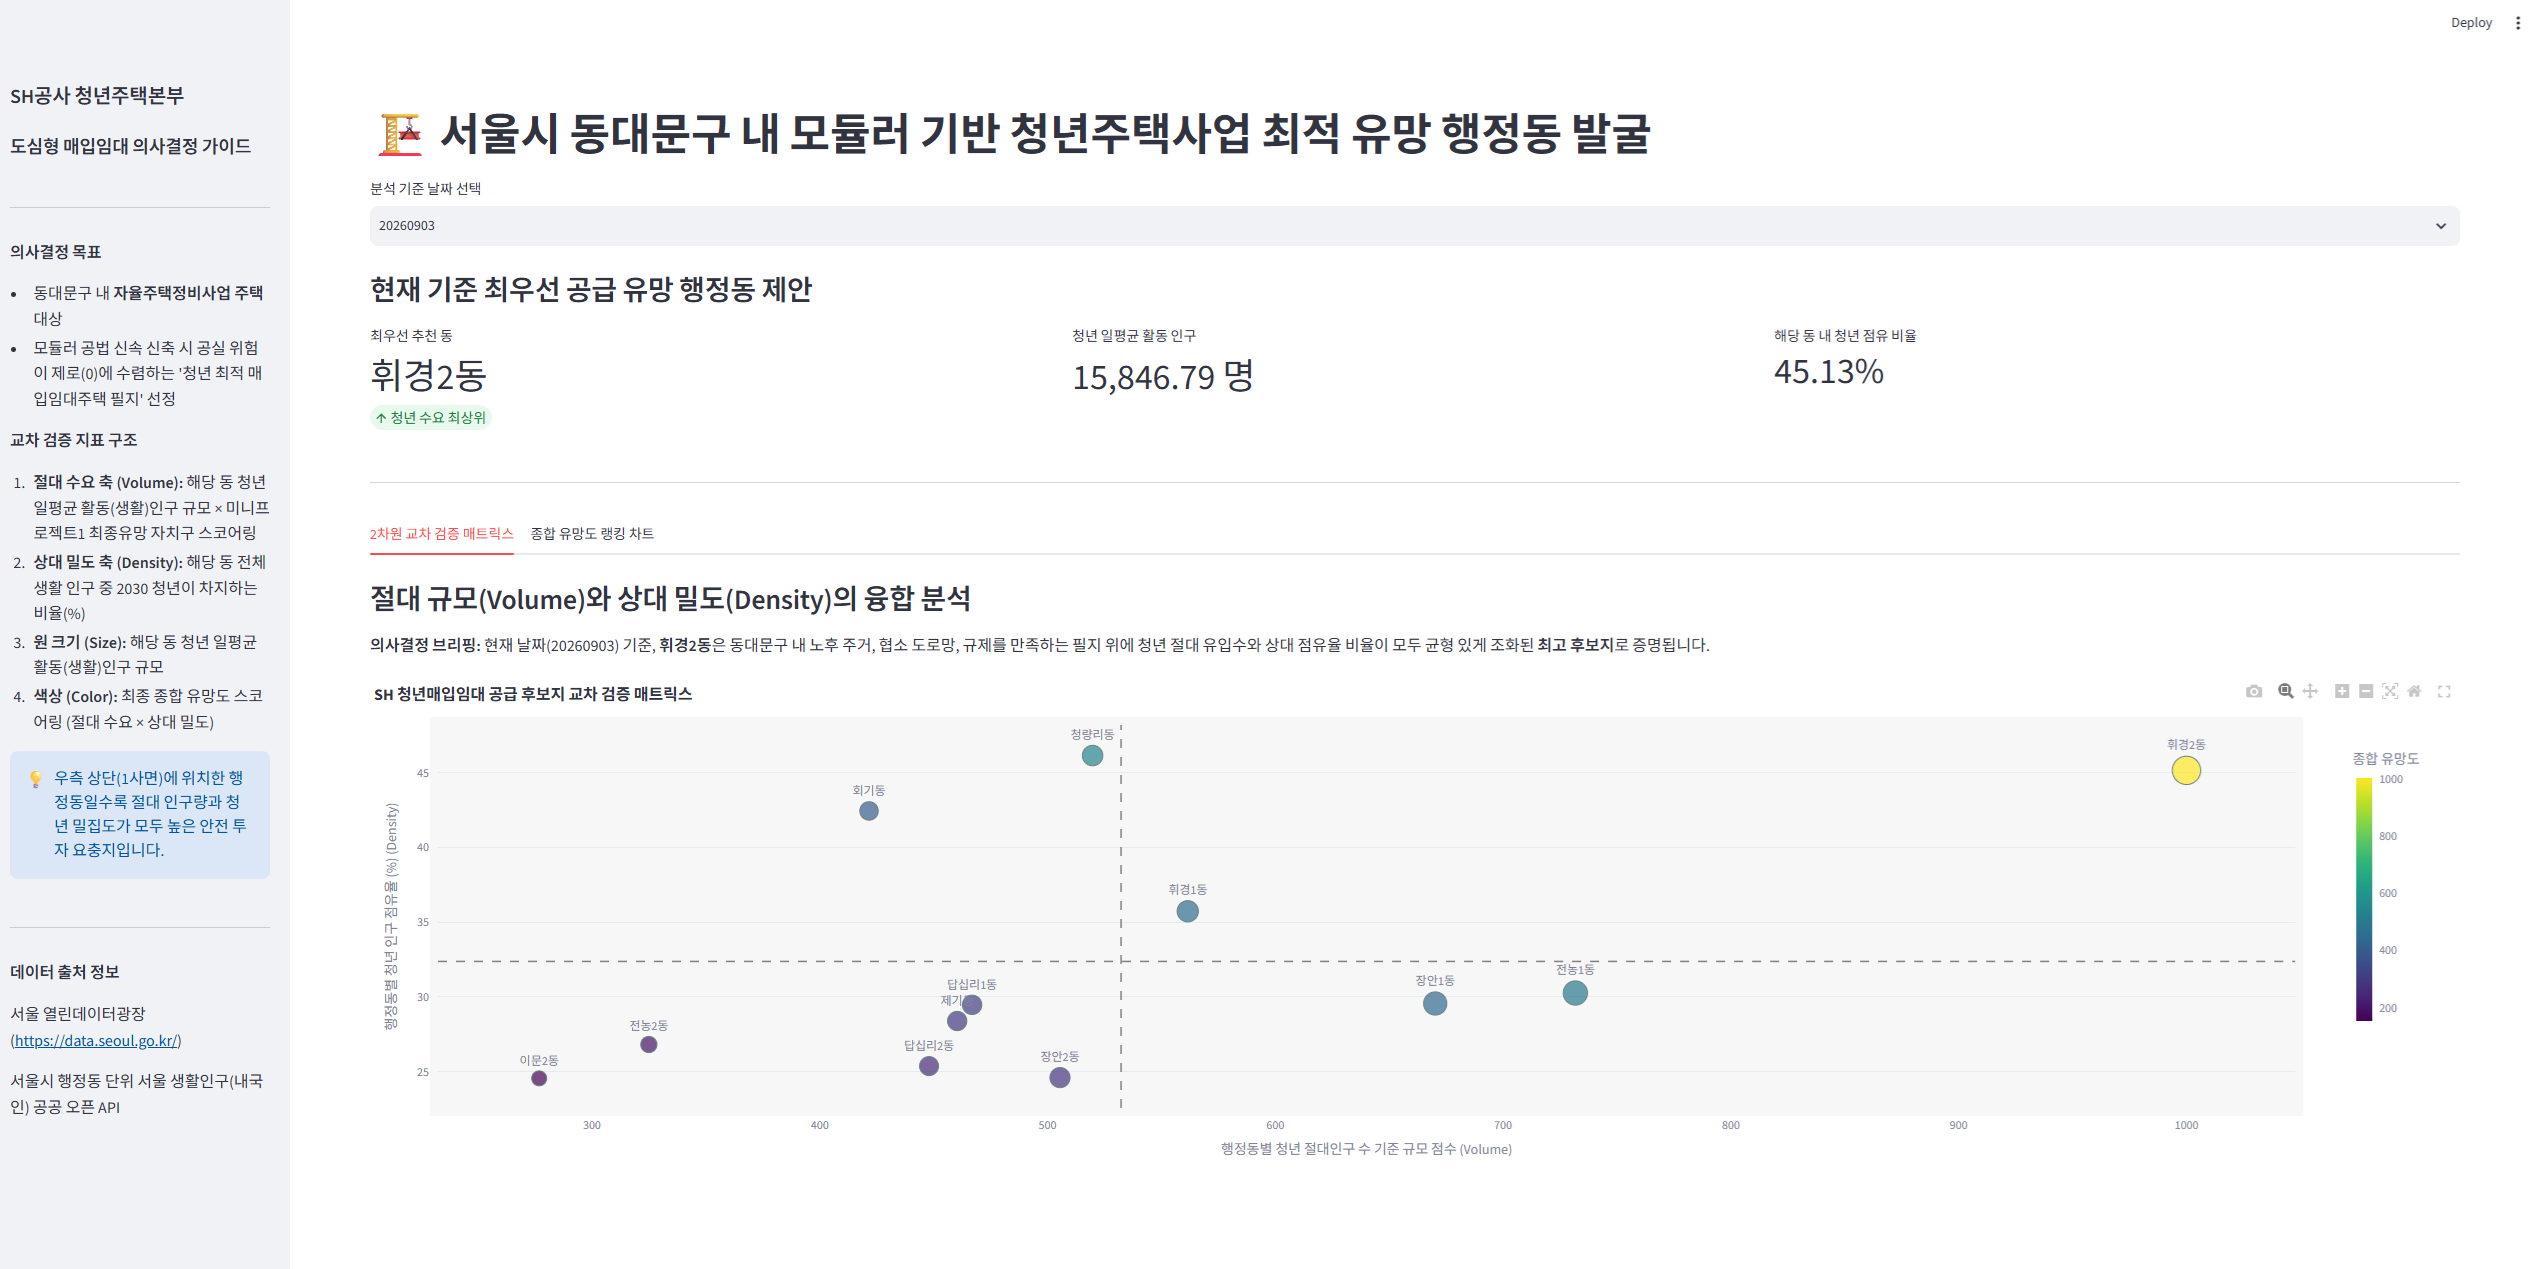
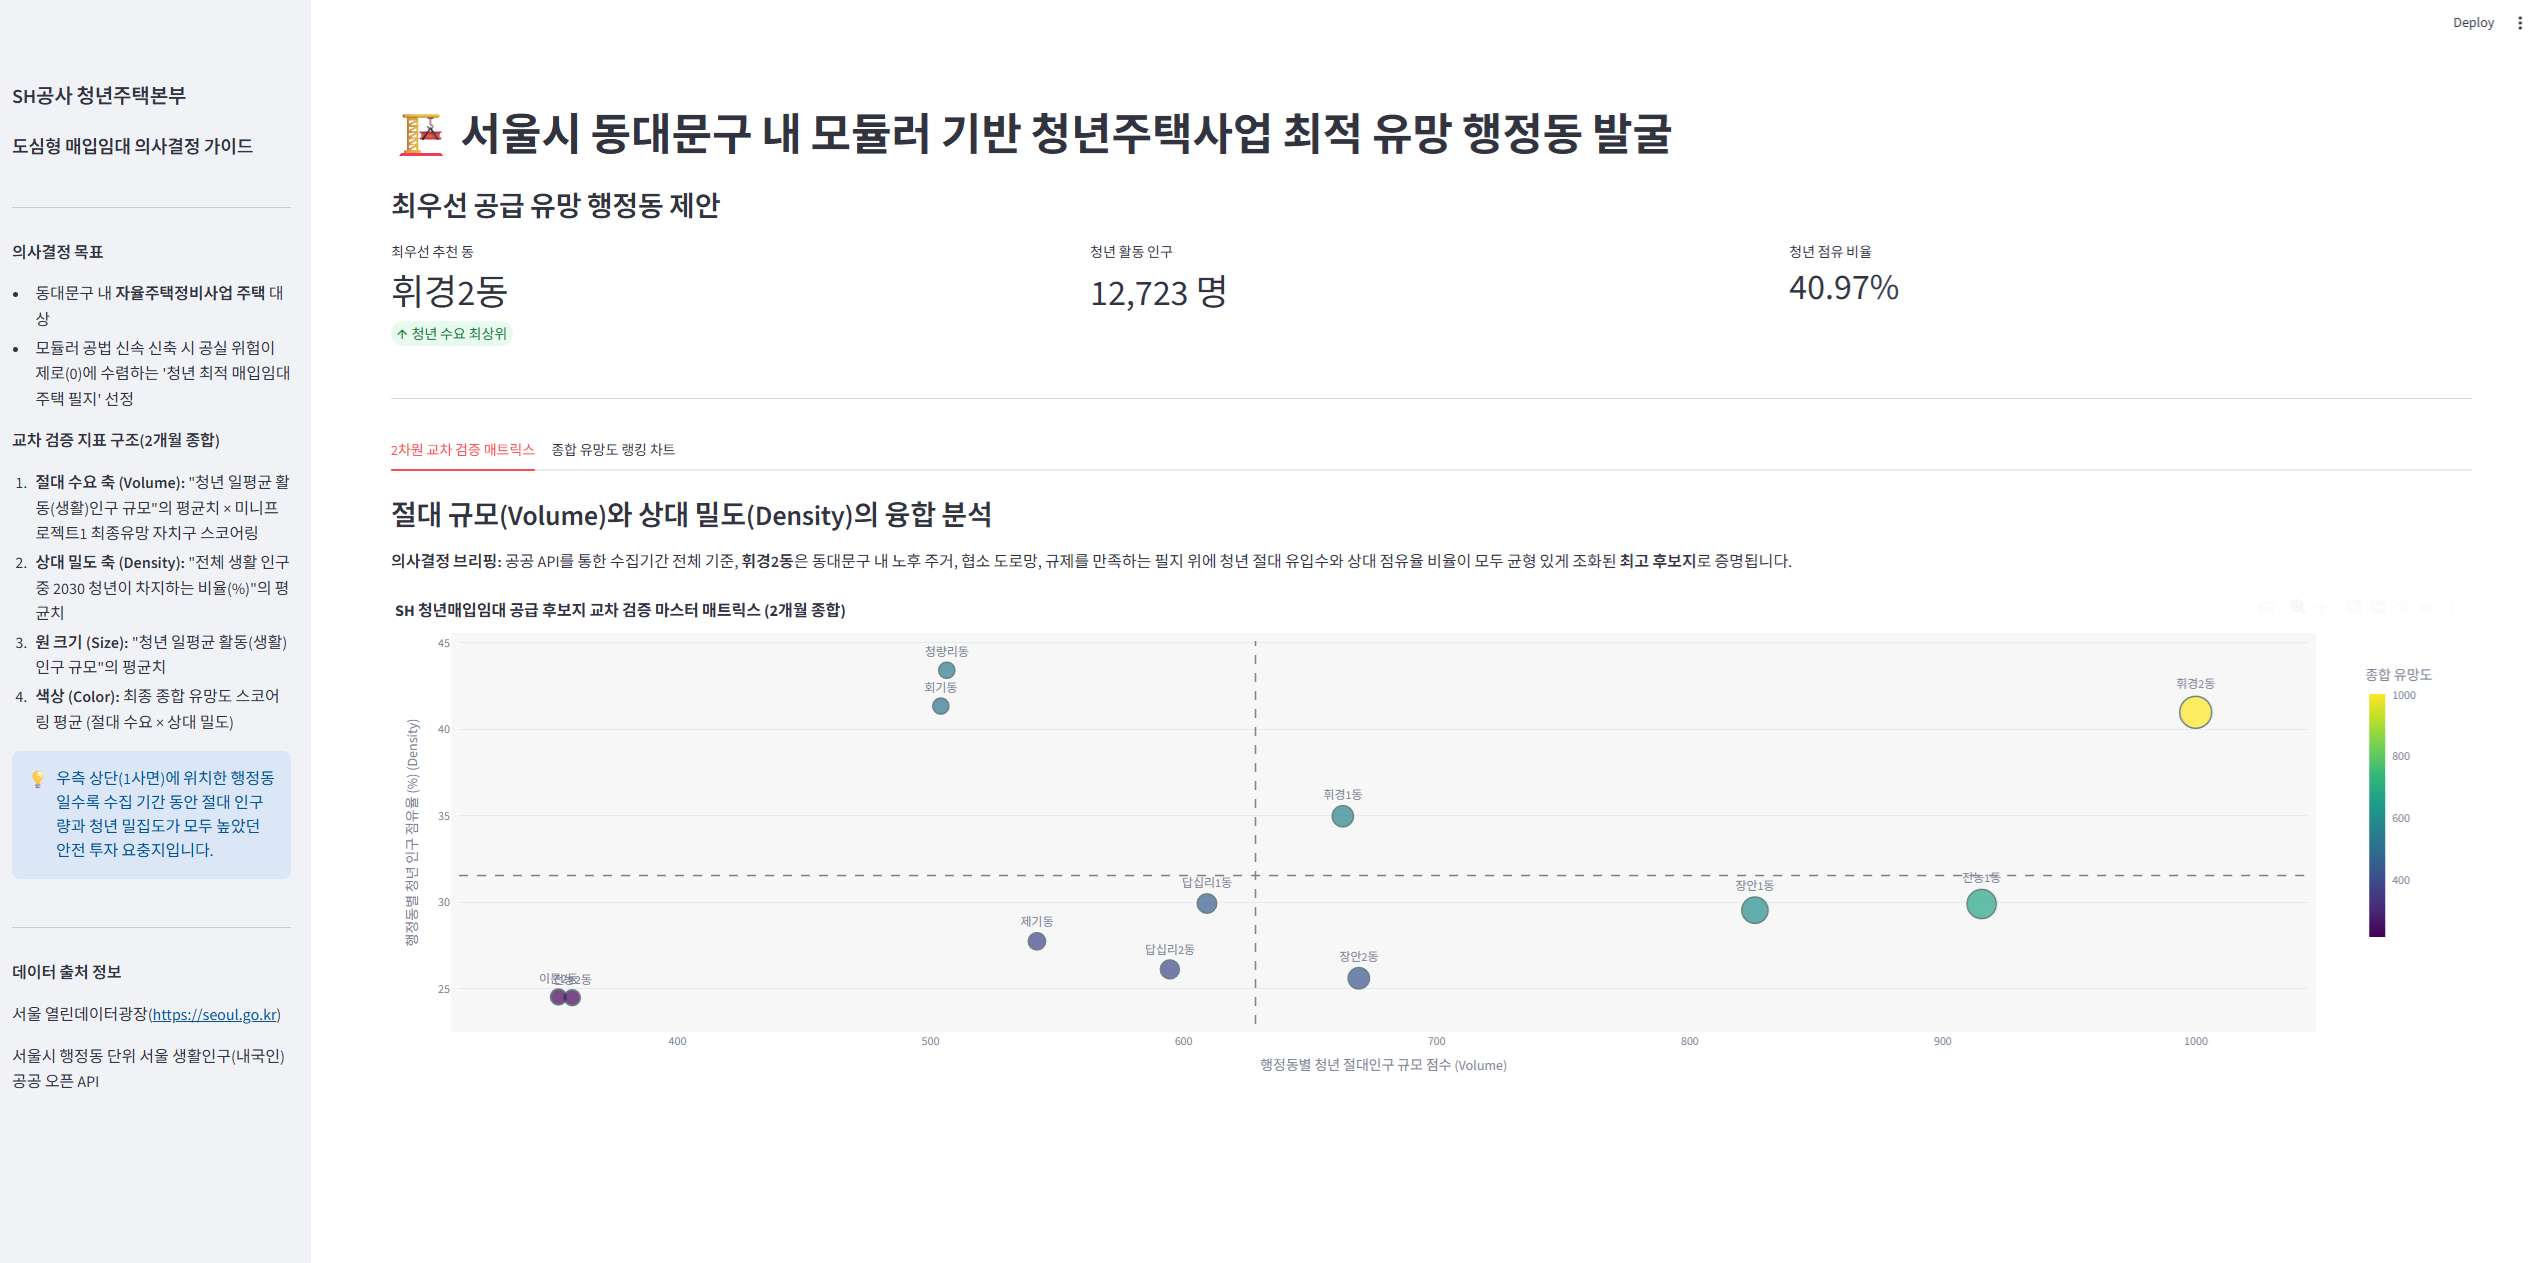
대시보드 최종 화면 수정

diff --git a/README.md b/README.md
@@ -97,19 +97,19 @@ project/
 ## 4. 실행 방법 (How to Run)
 
 *   1단계: 환경 변수 기밀 설정
-프로젝트 최상위 루트에 `.env` 파일을 생성하고 기밀 키와 패스워드를 입력합니다.
+    * 프로젝트 최상위 루트에 `.env` 파일을 생성하고 기밀 키와 패스워드를 입력합니다.
 
 *   2단계: RDBMS 테이블 및 데이터 마트 인프라 초기화
-MariaDB/MySQL 창을 열고 스키마 DDL을 실행하여 테이블 뼈대를 생성합니다.
+    * MariaDB/MySQL 창을 열고 스키마 DDL을 실행하여 테이블 뼈대를 생성합니다.
 
 *   3단계: 대량 시계열 자동 수집 파이프라인 가동 (Collector 실행)
-터미널을 열고 가상환경에서 수집 배치 패키지를 구동합니다. 자동으로 60일치 날짜를 계산하여 페이징 호출하고 전처리 정제를 거쳐 DB 원본 테이블에 안전하게 UPSERT 적재합니다.
+    * 터미널을 열고 가상환경에서 수집 배치 패키지를 구동합니다. 자동으로 60일치 날짜를 계산하여 페이징 호출하고 전처리 정제를 거쳐 DB 원본 테이블에 안전하게 UPSERT 적재합니다.
 
 *   4단계: 1,000점 스케일링 데이터 마트(Mart) 빌드 실행
-RDBMS 툴에서 `build_mart.sql` 스크립트를 가동하여 임시 테이블 활용 단계 연산 및 최고점 대비 1,000점 스케일링 변환을 완료합니다.
+    * RDBMS 툴에서 `build_mart.sql` 스크립트를 가동하여 임시 테이블 활용 단계 연산 및 최고점 대비 1,000점 스케일링 변환을 완료합니다.
 
-*   5단계: 인터랙티브 스토리텔링 대시보드 가동
-대시보드를 구동합니다. DB의 일별 마트 데이터를 로드한 뒤, 파이썬(Pandas)에서 2개월 전체 수집 기간을 실시간으로 종합(Aggregation) 가공합니다. 메인 화면에서는 요일 노이즈가 제거된 '마스터 사분면 매트릭스'를 표출하고, 종합 랭킹차트 부분에서는 하단 정밀 분석 영역을 통해 유저가 선택한 행정동의 2개월 일별 변동 트렌드를 선그래프와 테이블로 교차 스크리닝합니다.
+*   5단계: 의사결정용 대시보드 가동
+    * 대시보드를 구동합니다. DB의 일별 마트 데이터를 로드한 뒤, 파이썬(Pandas)에서 2개월 전체 수집 기간을 실시간으로 종합(Aggregation) 가공합니다. 메인 화면에서는 요일 노이즈가 제거된 '마스터 사분면 매트릭스'를 표출하고, 종합 랭킹차트 부분에서는 하단 정밀 분석 영역을 통해 유저가 선택한 행정동의 2개월 일별 변동 트렌드를 선그래프와 테이블로 교차 스크리닝합니다.
 
 ---
 
